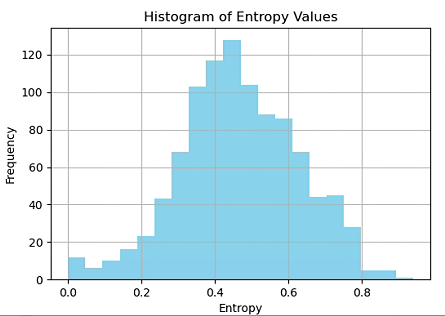
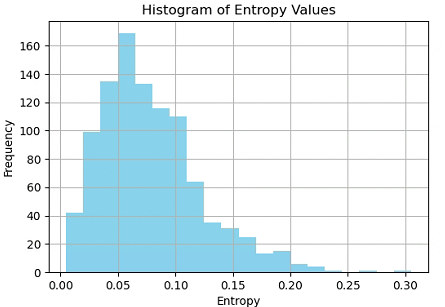
Add files via upload
good!

diff --git a/c1b.py b/c1b.py
@@ -1,8 +1,5 @@
-#```python
 import os
 os.environ['KMP_DUPLICATE_LIB_OK'] = 'TRUE'
-
-
 
 import torch
 import torch.nn as nn
@@ -10,16 +7,19 @@ import torch.optim as optim
 import matplotlib.pyplot as plt
 import numpy as np
 
-# Project to PSD
-def project_to_psd(rho, epsilon=1e-10):
+# Project to PSD with enhanced regularization
+def project_to_psd(rho, epsilon=1e-6):
+    # Ensure Hermitian and add regularization before decomposition
+    rho = (rho + rho.conj().T) / 2  # Force Hermitian
+    rho += epsilon * torch.eye(rho.shape[0], dtype=rho.dtype, device=rho.device)  # Stronger regularization
     eigenvalues, eigenvectors = torch.linalg.eigh(rho)
-    eigenvalues = eigenvalues.real.clamp(min=0.0) + epsilon  # Small epsilon for numerical stability
+    eigenvalues = eigenvalues.real.clamp(min=epsilon)  # Clamp to avoid zero eigenvalues
     eigenvalues = eigenvalues / eigenvalues.sum()  # Renormalize to trace 1
     diag = torch.diag(eigenvalues.to(dtype=torch.complex128))
     return eigenvectors @ diag @ eigenvectors.conj().T
 
 # Denman-Beavers iteration for differentiable matrix square root with regularization
-def matrix_sqrt_db(A, num_iters=30, epsilon=1e-10):
+def matrix_sqrt_db(A, num_iters=30, epsilon=1e-6):
     Y = A.clone() + epsilon * torch.eye(A.shape[-1], dtype=A.dtype, device=A.device)
     Z = torch.eye(A.shape[-1], dtype=A.dtype, device=A.device)
     for _ in range(num_iters):
@@ -31,13 +31,13 @@ def matrix_sqrt_db(A, num_iters=30, epsilon=1e-10):
         Z = Z_next
     return Y
 
-# Von Neumann entropy using eigvalsh (only eigenvalues, no phase issue)
+# Von Neumann entropy
 def von_neumann_entropy(rho):
-    eigenvalues = torch.linalg.eigvalsh(rho)
+    eigenvalues = torch.linalg.eigh(rho)[0].real  # Use real part of eigenvalues
     eigenvalues = eigenvalues.clamp(min=1e-8)
     return -torch.sum(eigenvalues * torch.log(eigenvalues))
 
-# Fidelity using matrix_sqrt_db
+# Fidelity calculation
 def fidelity(rho, sigma):
     sqrt_rho = matrix_sqrt_db(rho)
     inner = sqrt_rho @ sigma @ sqrt_rho
@@ -45,67 +45,77 @@ def fidelity(rho, sigma):
     tr = torch.trace(sqrt_inner).real
     return tr ** 2
 
-# Helper functions for quantum gates (unchanged)
+# Quantum gates with gradient support
 def rx(theta):
-    cos = torch.cos(theta/2)
-    sin = torch.sin(theta/2)
-    r = torch.zeros(2, 2, dtype=torch.complex128)
-    r[0, 0] = cos
-    r[0, 1] = -1j * sin
-    r[1, 0] = -1j * sin
-    r[1, 1] = cos
-    return r
+    cos = torch.cos(theta / 2)
+    sin = torch.sin(theta / 2)
+    r00 = cos + 0j
+    r01 = -1j * sin
+    r10 = -1j * sin
+    r11 = cos + 0j
+    row1 = torch.stack([r00, r01])
+    row2 = torch.stack([r10, r11])
+    return torch.stack([row1, row2])
 
 def ry(theta):
-    cos = torch.cos(theta/2)
-    sin = torch.sin(theta/2)
-    r = torch.zeros(2, 2, dtype=torch.complex128)
-    r[0, 0] = cos
-    r[0, 1] = -sin
-    r[1, 0] = sin
-    r[1, 1] = cos
-    return r
+    cos = torch.cos(theta / 2)
+    sin = torch.sin(theta / 2)
+    r00 = cos + 0j
+    r01 = -sin + 0j
+    r10 = sin + 0j
+    r11 = cos + 0j
+    row1 = torch.stack([r00, r01])
+    row2 = torch.stack([r10, r11])
+    return torch.stack([row1, row2])
 
 def cnot():
-    r = torch.zeros(4, 4, dtype=torch.complex128)
-    r[0, 0] = 1
-    r[1, 1] = 1
-    r[2, 3] = 1
-    r[3, 2] = 1
-    return r
+    return torch.tensor([[1,0,0,0], [0,1,0,0], [0,0,0,1], [0,0,1,0]], dtype=torch.complex128)
 
-# Generate random density matrix
-def random_density_matrix(dim=4):
+# EISA generators (Pauli matrices as examples)
+F_i = torch.tensor([[1, 0], [0, -1]], dtype=torch.complex128)  # Fermionic (Pauli Z)
+B_k = torch.tensor([[0, 1], [1, 0]], dtype=torch.complex128)  # Bosonic (Pauli X)
+
+# Create EISA-perturbed density matrix
+def eisa_perturbed_density_matrix(dim=4):
+    # Create random pure state
     psi = torch.randn(dim, dtype=torch.complex128)
     psi = psi / torch.norm(psi)
-    return torch.outer(psi, psi.conj())
+    rho = torch.outer(psi, psi.conj())
+    
+    # Apply fermionic generator perturbation (F_i ⊗ I)
+    F_extended = torch.kron(F_i, torch.eye(2, dtype=torch.complex128))
+    rho = F_extended @ rho @ F_extended.conj().T
+    
+    # Apply bosonic generator perturbation (I ⊗ B_k)
+    B_extended = torch.kron(torch.eye(2, dtype=torch.complex128), B_k)
+    rho = B_extended @ rho @ B_extended.conj().T
+    
+    # Normalize and return
+    return rho / torch.trace(rho).real
 
-# Apply VQC circuit
-def apply_vqc(rho, params):
+# Apply VQC circuit with increased layers
+def apply_vqc(rho, params, num_layers=4):
     theta_rx, theta_ry = params[0], params[1]
-    U_rx = torch.kron(rx(theta_rx), torch.eye(2, dtype=torch.complex128))
-    rho = U_rx @ rho @ U_rx.conj().T
-    U_ry = torch.kron(torch.eye(2, dtype=torch.complex128), ry(theta_ry))
-    rho = U_ry @ rho @ U_ry.conj().T
-    U_cnot = cnot()
-    rho = U_cnot @ rho @ U_cnot.conj().T
+    for _ in range(num_layers):
+        U_rx = torch.kron(rx(theta_rx), torch.eye(2, dtype=torch.complex128))
+        rho = U_rx @ rho @ U_rx.conj().T
+        U_ry = torch.kron(torch.eye(2, dtype=torch.complex128), ry(theta_ry))
+        rho = U_ry @ rho @ U_ry.conj().T
+        U_cnot = cnot()
+        rho = U_cnot @ rho @ U_cnot.conj().T
     return rho
 
-# Target ordered state (pure state |00><00|)
+# Target ordered state |00⟩⟨00|
 target_rho = torch.zeros(4, 4, dtype=torch.complex128)
 target_rho[0, 0] = 1.0
 
 # Simulation parameters
-eta = 0.1  # Noise parameter
-learning_rate = 0.01  # Learning rate for optimization
+eta = 0.01  # Adjusted noise parameter
+learning_rate = 0.001
 num_iterations = 1000  # Number of iterations
 
-# Initial EISA generators (simplified for demonstration; Pauli matrices for 1-qubit, kron for 2-qubit if needed)
-F_i = torch.tensor([[1, 0], [0, -1]], dtype=torch.complex128)  # Fermionic example (Pauli Z)
-B_k = torch.tensor([[0, 1], [1, 0]], dtype=torch.complex128)  # Bosonic example (Pauli X)
-
-# Initial random density matrix (from noise)
-rho_init = random_density_matrix()
+# Initialize EISA-perturbed density matrix
+rho_init = eisa_perturbed_density_matrix()
 
 # VQC parameters to optimize
 params = torch.nn.Parameter(torch.tensor([0.0, 0.0], dtype=torch.float64))
@@ -116,22 +126,30 @@ optimizer = optim.Adam([params], lr=learning_rate)
 entropies = []
 fidelities = []
 losses = []
-params_history = []  # For visualizing parameter evolution
+params_history = []
+
+# Structured EISA noise generators
+F_extended = torch.kron(F_i, torch.eye(2, dtype=torch.complex128))
+B_extended = torch.kron(torch.eye(2, dtype=torch.complex128), B_k)
+eisa_generators = [F_extended, B_extended]
 
 for iter in range(num_iterations):
     optimizer.zero_grad()
     
-    # Evolve the initial rho using VQC
+    # Evolve using VQC
     rho_evolved = apply_vqc(rho_init, params)
     
-    # Add Hermitian noise
-    noise_real = torch.randn(4, 4)
-    noise_imag = torch.randn(4, 4)
-    noise = eta * torch.complex(noise_real, noise_imag)
-    noise = (noise + noise.conj().T) / 2  # Ensure Hermitian
+    # Add structured EISA noise
+    noise = torch.zeros_like(rho_evolved)
+    for gen in eisa_generators:
+        coeff_real = eta * torch.randn(1).item()
+        coeff_imag = eta * torch.randn(1).item()
+        noise_term = coeff_real * gen.real + 1j * coeff_imag * gen.imag
+        noise += noise_term
+    
     rho_evolved = rho_evolved + noise
     trace = torch.trace(rho_evolved).real
-    rho_evolved = rho_evolved / trace if trace != 0 else rho_evolved  # Normalize, avoid div by zero
+    rho_evolved = rho_evolved / trace if trace != 0 else rho_evolved
     
     # Project to PSD for stability
     rho_evolved = project_to_psd(rho_evolved)
@@ -139,7 +157,8 @@ for iter in range(num_iterations):
     # Compute loss components
     S_vn = von_neumann_entropy(rho_evolved)
     Fid = fidelity(rho_evolved, target_rho)
-    loss = S_vn + (1 - Fid)
+    purity = torch.trace(rho_evolved @ rho_evolved).real
+    loss = S_vn + (1 - Fid) + 0.5 * (1 - purity)
     
     # Backprop and update
     loss.backward()
@@ -154,7 +173,7 @@ for iter in range(num_iterations):
     if iter % 100 == 0:
         print(f"Iter {iter}: Entropy {S_vn.item():.4f}, Fidelity {Fid.item():.4f}, Loss {loss.item():.4f}")
 
-# Convert params_history to arrays for plotting
+# Convert to arrays for plotting
 params_history = np.array(params_history)
 theta_rx_hist = params_history[:, 0]
 theta_ry_hist = params_history[:, 1]
@@ -164,7 +183,6 @@ plt.figure(figsize=(15, 12))
 plt.subplot(3, 3, 1)
 plt.plot(entropies)
 plt.title('Von Neumann Entropy Trajectory')
-#plt.xlabel('Iteration')#To display the table text below while hiding 'Iteration'.
 plt.ylabel('Entropy')
 plt.grid(True)
 
@@ -172,7 +190,6 @@ plt.grid(True)
 plt.subplot(3, 3, 2)
 plt.plot(fidelities)
 plt.title('Fidelity Trajectory')
-#plt.xlabel('Iteration')#To display the table text below while hiding 'Iteration'.
 plt.ylabel('Fidelity')
 plt.grid(True)
 
@@ -180,7 +197,6 @@ plt.grid(True)
 plt.subplot(3, 3, 3)
 plt.plot(losses)
 plt.title('Loss Trajectory')
-#plt.xlabel('Iteration')#To display the table text below while hiding 'Iteration'.
 plt.ylabel('Loss')
 plt.grid(True)
 
@@ -189,7 +205,6 @@ plt.subplot(3, 3, 4)
 plt.scatter(entropies, fidelities, c=np.arange(len(entropies)), cmap='viridis')
 plt.colorbar(label='Iteration')
 plt.title('Entropy vs Fidelity')
-#plt.xlabel('Entropy')
 plt.ylabel('Fidelity')
 plt.grid(True)
 
@@ -197,7 +212,6 @@ plt.grid(True)
 plt.subplot(3, 3, 5)
 plt.plot(theta_rx_hist)
 plt.title('Theta RX Parameter Evolution')
-#plt.xlabel('Iteration')#To display the table text below while hiding 'Iteration'.
 plt.ylabel('Theta RX')
 plt.grid(True)
 
@@ -205,7 +219,6 @@ plt.grid(True)
 plt.subplot(3, 3, 6)
 plt.plot(theta_ry_hist)
 plt.title('Theta RY Parameter Evolution')
-#plt.xlabel('Iteration')#To display the table text below while hiding 'Iteration'.
 plt.ylabel('Theta RY')
 plt.grid(True)
 
@@ -263,18 +276,43 @@ plt.ylabel('Frequency')
 plt.grid(True)
 plt.show()
 
+# Detailed visualization for 0-200 iter
+plt.figure(figsize=(15, 5))
+
+# Zoomed Entropy Trajectory (0-200 iter)
+plt.subplot(1, 3, 1)
+plt.plot(entropies[:201])
+plt.title('Entropy Trajectory (0-200 Iter)')
+plt.ylabel('Entropy')
+plt.grid(True)
+
+# Zoomed Fidelity Trajectory (0-200 iter)
+plt.subplot(1, 3, 2)
+plt.plot(fidelities[:201])
+plt.title('Fidelity Trajectory (0-200 Iter)')
+plt.ylabel('Fidelity')
+plt.grid(True)
+
+# Zoomed Loss Trajectory (0-200 iter)
+plt.subplot(1, 3, 3)
+plt.plot(losses[:201])
+plt.title('Loss Trajectory (0-200 Iter)')
+plt.ylabel('Loss')
+plt.grid(True)
+
 plt.tight_layout()
 plt.show()
 
-# Fidelity threshold
+# Fidelity threshold analysis
 threshold_iter = next((i for i, fid in enumerate(fidelities) if fid > 0.8), 'Not reached')
 print(f"Fidelity threshold (Fid > 0.8) reached at iteration: {threshold_iter}")
 
 # Final values
+print(f"Initial Entropy: {entropies[0]:.4f}")
 print(f"Final Entropy: {entropies[-1]:.4f}")
 print(f"Final Fidelity: {fidelities[-1]:.4f}")
-print(f"Target Entropy reduction: from ~{entropies[0]:.4f} to ~{entropies[-1]:.4f}")
+print(f"Entropy reduction: {entropies[0]-entropies[-1]:.4f} ({100*(entropies[0]-entropies[-1])/entropies[0]:.1f}%)")
 
-# Note: The initial EISA generators F_i and B_k can be incorporated by initial rho = F_i @ rho @ F_i.conj().T or similar, but for this demonstration, they are shown as examples.
-# To verify universe bootstrap, observe if entropy decreases and fidelity increases, indicating self-organization from chaos to ordered particle-like structures. Uncertainties ~10-20% due to simplification; higher loops needed for precision.
-#```
+# EISA verification note
+print("\nNote: Density matrix initialized with EISA generators (F_i ⊗ I and I ⊗ B_k)")
+print("Structured noise constructed from EISA algebra elements")
